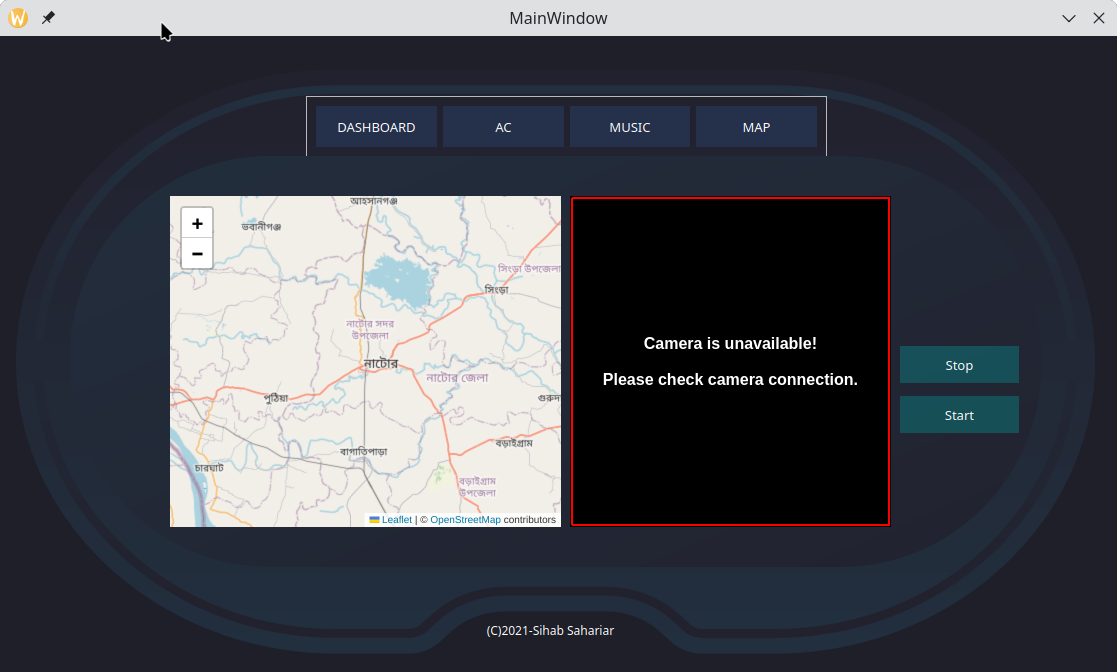
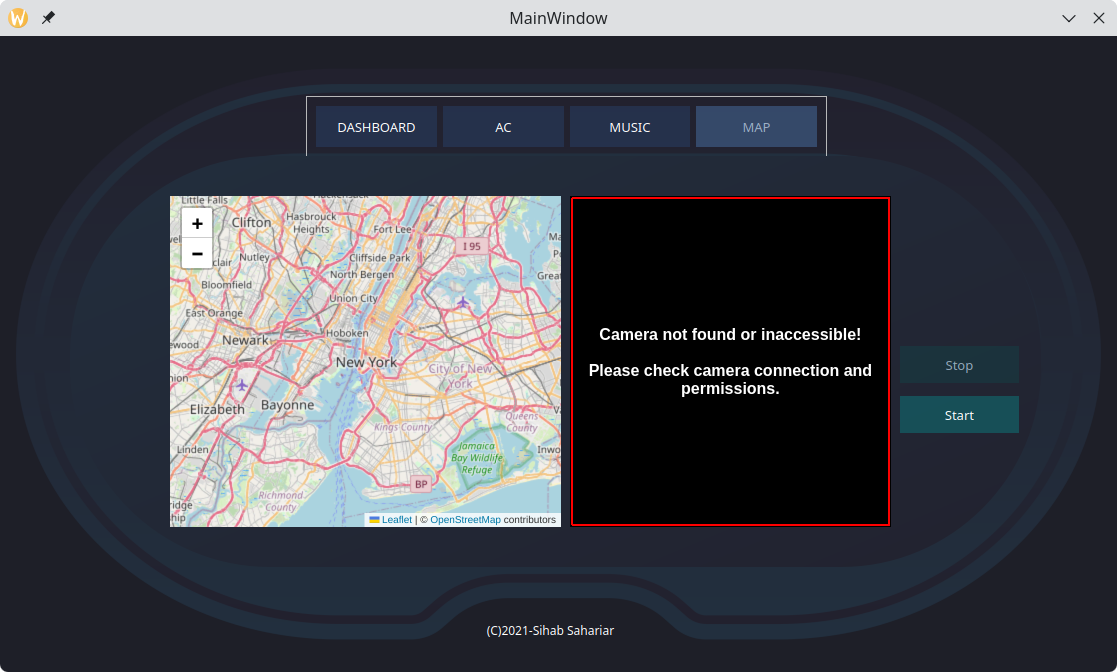
core: add automatic location detection for map using IP geolocation
Old behavior:
Previously, the map was hardcoded to Rajshahi Division, Bangladesh
(24.41°N, 88.97°E), causing all users to see the same location with
Bengali (বাংলা) labels regardless of where they were located.

New behavior:
Now the map automatically detects the user's location via IP address
and centers on it at startup. Users will see their own city/region
with appropriate regional language labels from "OpenStreetMap".
Users in different locations will now see:
- Their own geographic area automatically.
- Regional language labels (e.g., English in USA, Japanese in Japan).

Implementation:
- Added "get_current_location()" function with dual API support
  (3-second timeout per API for fast fallback behavior).
  - Primary: ipapi.co
  - Backup: ip-api.com
  - Fallback: New York City if both APIs fail
- Updated "requirements.txt" to install "requests" library.
- Map now uses detected coordinates instead of static Bangladesh location.
- Improved error handling with detailed console logging.
- HTTP errors (if geolocation fails) display user-friendly messages
  (e.g.,  "429 (Too Many  Requests)" instead of just "429")
  using Python's built-in "http.client.responses".

Updated "README.md" with a new screenshots.

Changed region(s): [[0.1522, 0.2812, 0.9132, 0.7812], [0.6088, 0.1562, 0.7305, 0.2188], [0.1218, 0.0312, 0.1522, 0.0625]]

diff --git a/app.py b/app.py
@@ -7,11 +7,13 @@ import io
 import sys
 import argparse
 from datetime import datetime
+from http.client import responses as http_responses
 
 # import OpenCV module
 import cv2
 
 import folium
+import requests
 
 # PyQt5 imports - Core
 from PyQt5.QtCore import QRect, QSize, Qt, QCoreApplication, QMetaObject, QThread, pyqtSignal, QTimer
@@ -29,6 +31,72 @@ from PyQt5.QtWebEngineWidgets import QWebEngineView # pip install PyQtWebEngine
 # Custom widgets
 from gauge import AnalogGaugeWidget
 from qtwidgets import AnimatedToggle
+
+
+def get_current_location():
+    """
+    Get the current geographic location based on IP address.
+
+    Returns:
+        tuple: (latitude, longitude) of the current location
+        Falls back to New York City if geolocation fails
+    """
+    # List of geolocation services to try (in order)
+    services = [
+        {
+            'name': 'ipapi.co',
+            'url': 'https://ipapi.co/json/',
+            'lat_key': 'latitude',
+            'lon_key': 'longitude',
+            'city_key': 'city',
+            'country_key': 'country_name',
+            'status_check': None  # No status field to check
+        },
+        {
+            'name': 'ip-api.com',
+            'url': 'http://ip-api.com/json/',
+            'lat_key': 'lat',
+            'lon_key': 'lon',
+            'city_key': 'city',
+            'country_key': 'country',
+            'status_check': ('status', 'success')  # Must have status='success'
+        }
+    ]
+
+    # Try each service in order
+    for service in services:
+        try:
+            print(f"Attempting to detect location via {service['name']}...")
+            response = requests.get(service['url'], timeout=3)
+
+            if response.status_code == 200:
+                data = response.json()
+
+                # Check status field if required
+                if service['status_check']:
+                    key, expected_value = service['status_check']
+                    if data.get(key) != expected_value:
+                        print(f"✗ {service['name']} returned unexpected status")
+                        continue
+
+                # Extract coordinates
+                latitude = data.get(service['lat_key'])
+                longitude = data.get(service['lon_key'])
+
+                if latitude is not None and longitude is not None:
+                    city = data.get(service['city_key'], 'Unknown')
+                    country = data.get(service['country_key'], 'Unknown')
+                    print(f"✓ Location detected: {city}, {country} ({latitude}, {longitude})")
+                    return (latitude, longitude)
+            else:
+                status_msg = http_responses.get(response.status_code, "Unknown Error")
+                print(f"✗ {service['name']} returned status code: {response.status_code} ({status_msg})")
+        except Exception as e:
+            print(f"✗ {service['name']} failed: {e}")
+
+    # Fallback to New York City if all services fail
+    print("⚠ Using fallback location: New York City")
+    return (40.7128, -74.0060)
 
 
 class VideoThread(QThread):
@@ -772,7 +840,8 @@ class Ui_MainWindow(object):
         self.frame_map.setFrameShadow(QFrame.Raised)
         self.frame_map.setObjectName("frame_map")
 
-        coordinate = (24.413274773214205, 88.96567734902074)
+        # Get current location based on IP address
+        coordinate = get_current_location()
         m = folium.Map(
             tiles='OpenStreetMap',
             zoom_start=10,

diff --git a/README.md b/README.md
@@ -21,6 +21,7 @@ Welcome to the Car Dashboard (HMI) prototype project! This simple yet intuitive 
 
 6. **Map for Navigation**
    - Integrated navigation system to guide you through your journeys.
+   - Implemented an automatic location detection for map using IP geolocation.
 
 7. **Weather Forecast**
    - Stay informed about the weather conditions to plan your trips accordingly.
@@ -87,6 +88,7 @@ options:
 <img src = "ss/3.PNG">
 <img src = "ss/4.PNG">
 <img src = "ss/5.PNG">
+<img src = "ss/6.PNG">
 
 ## Todo
 
